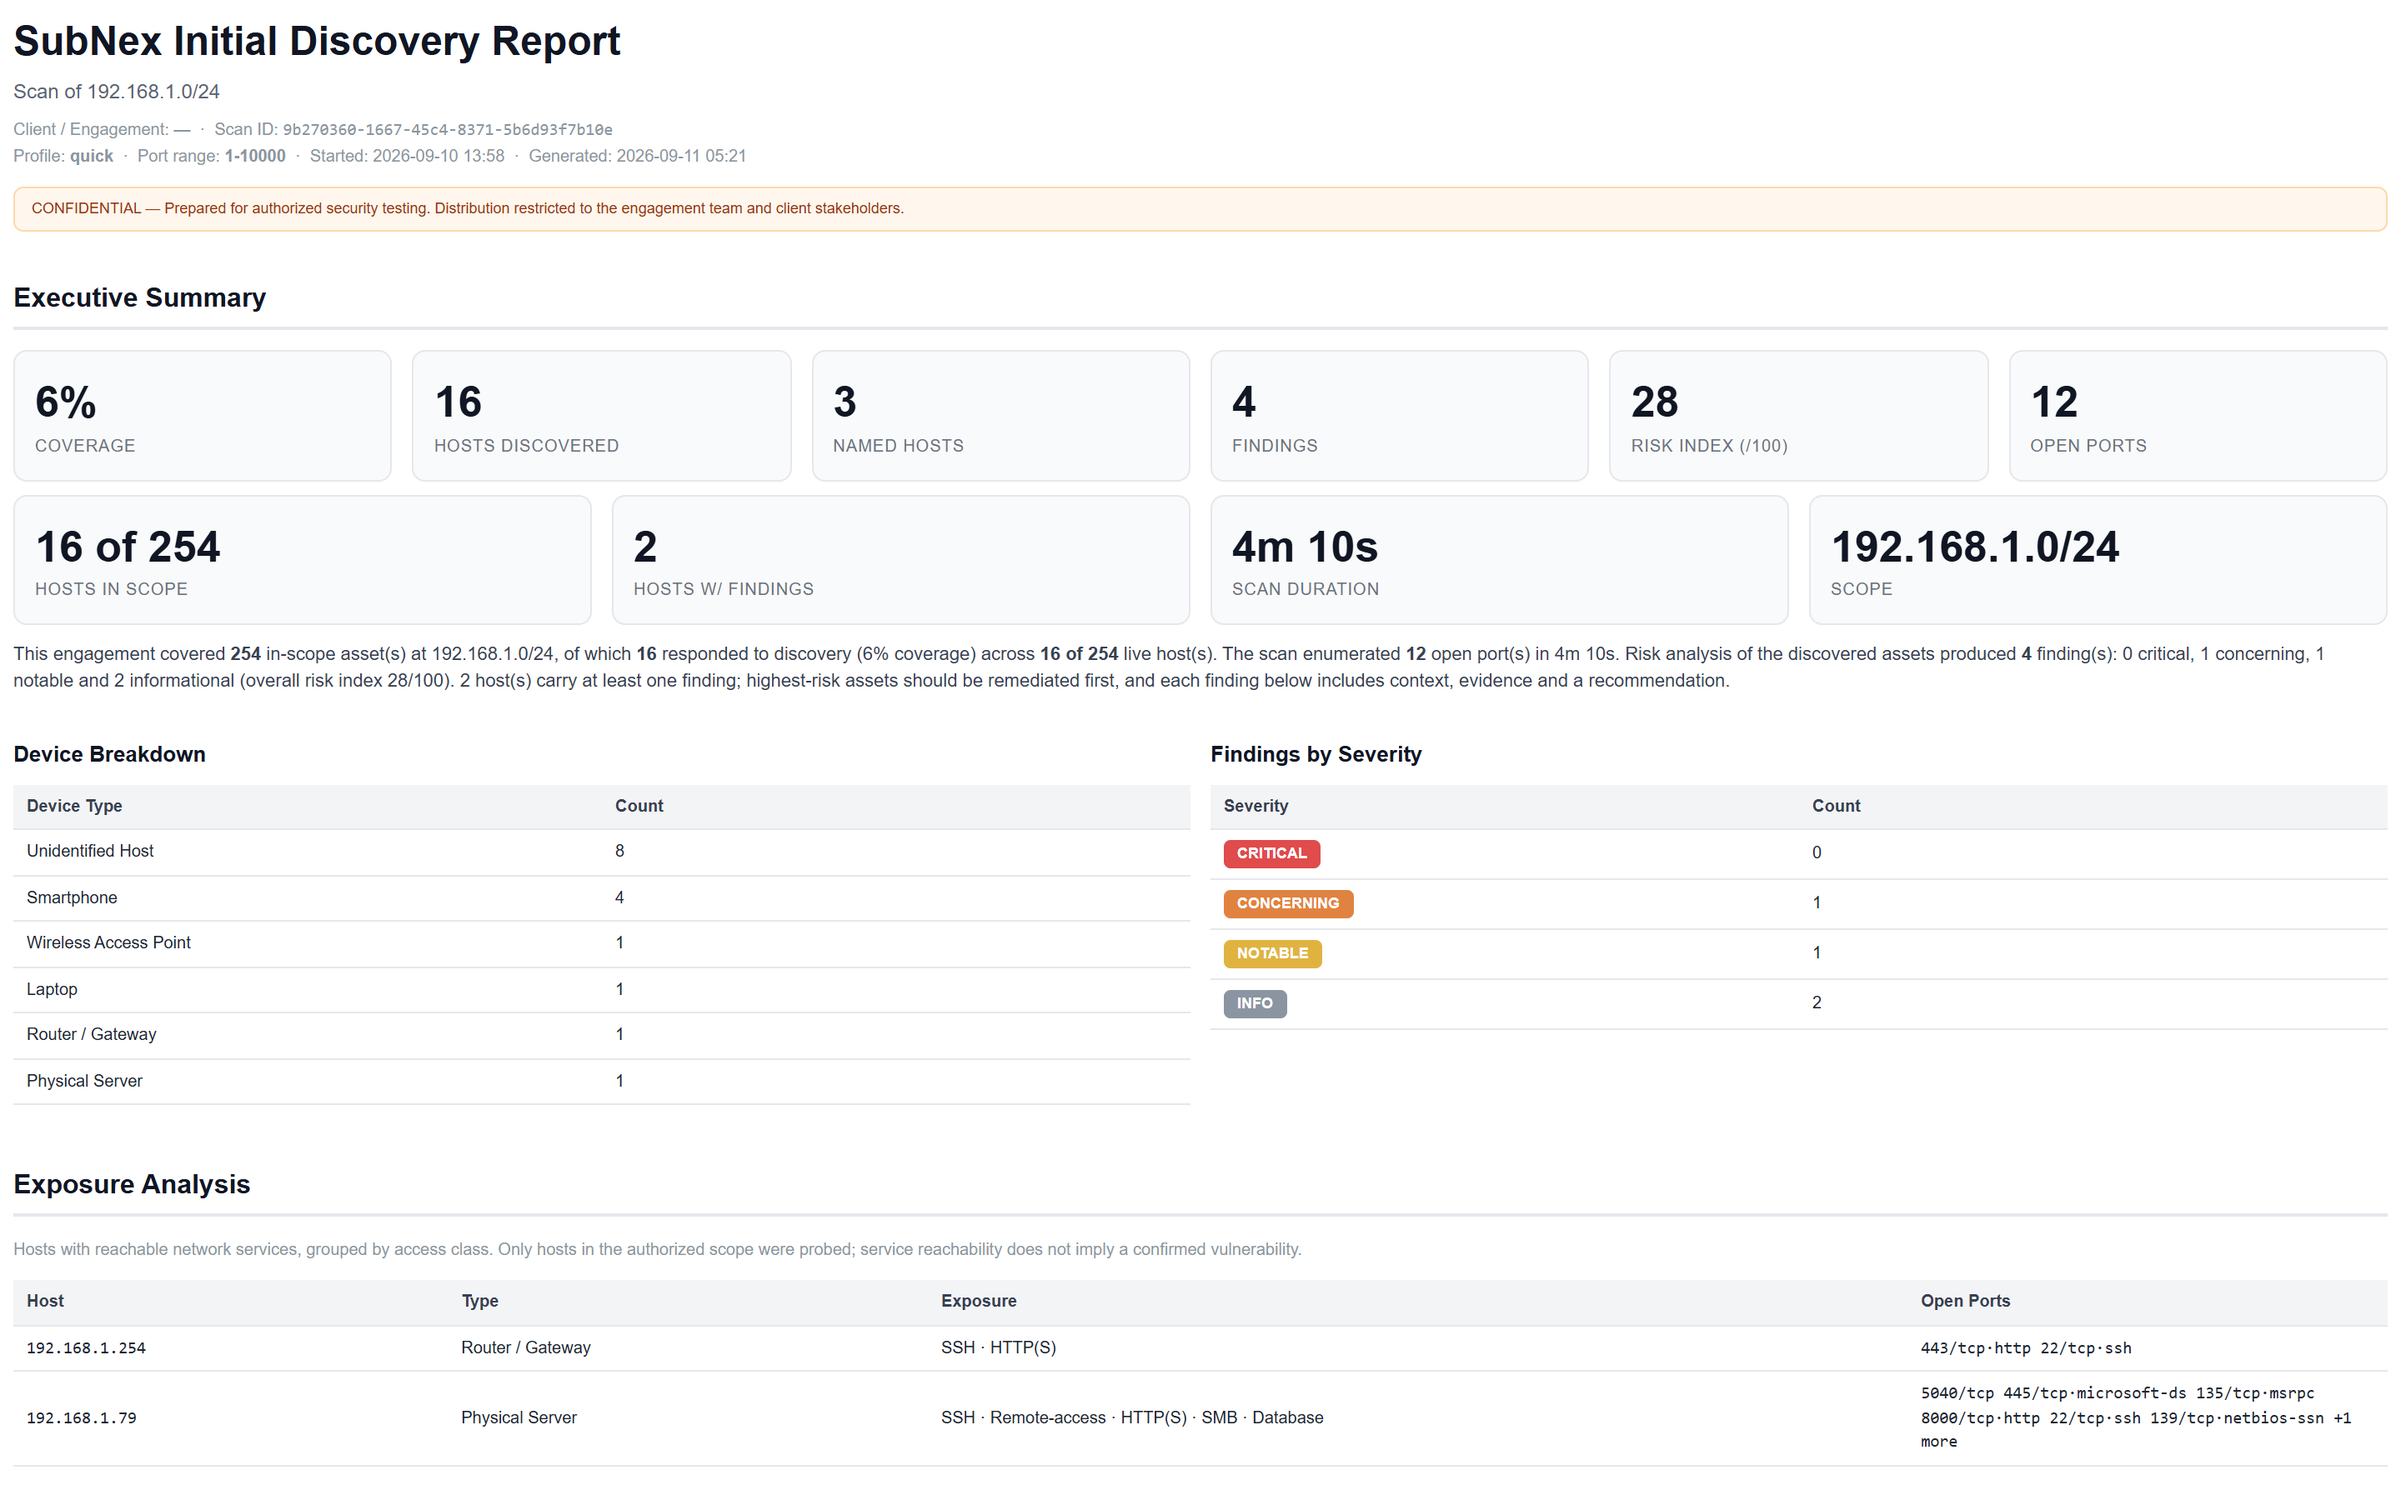
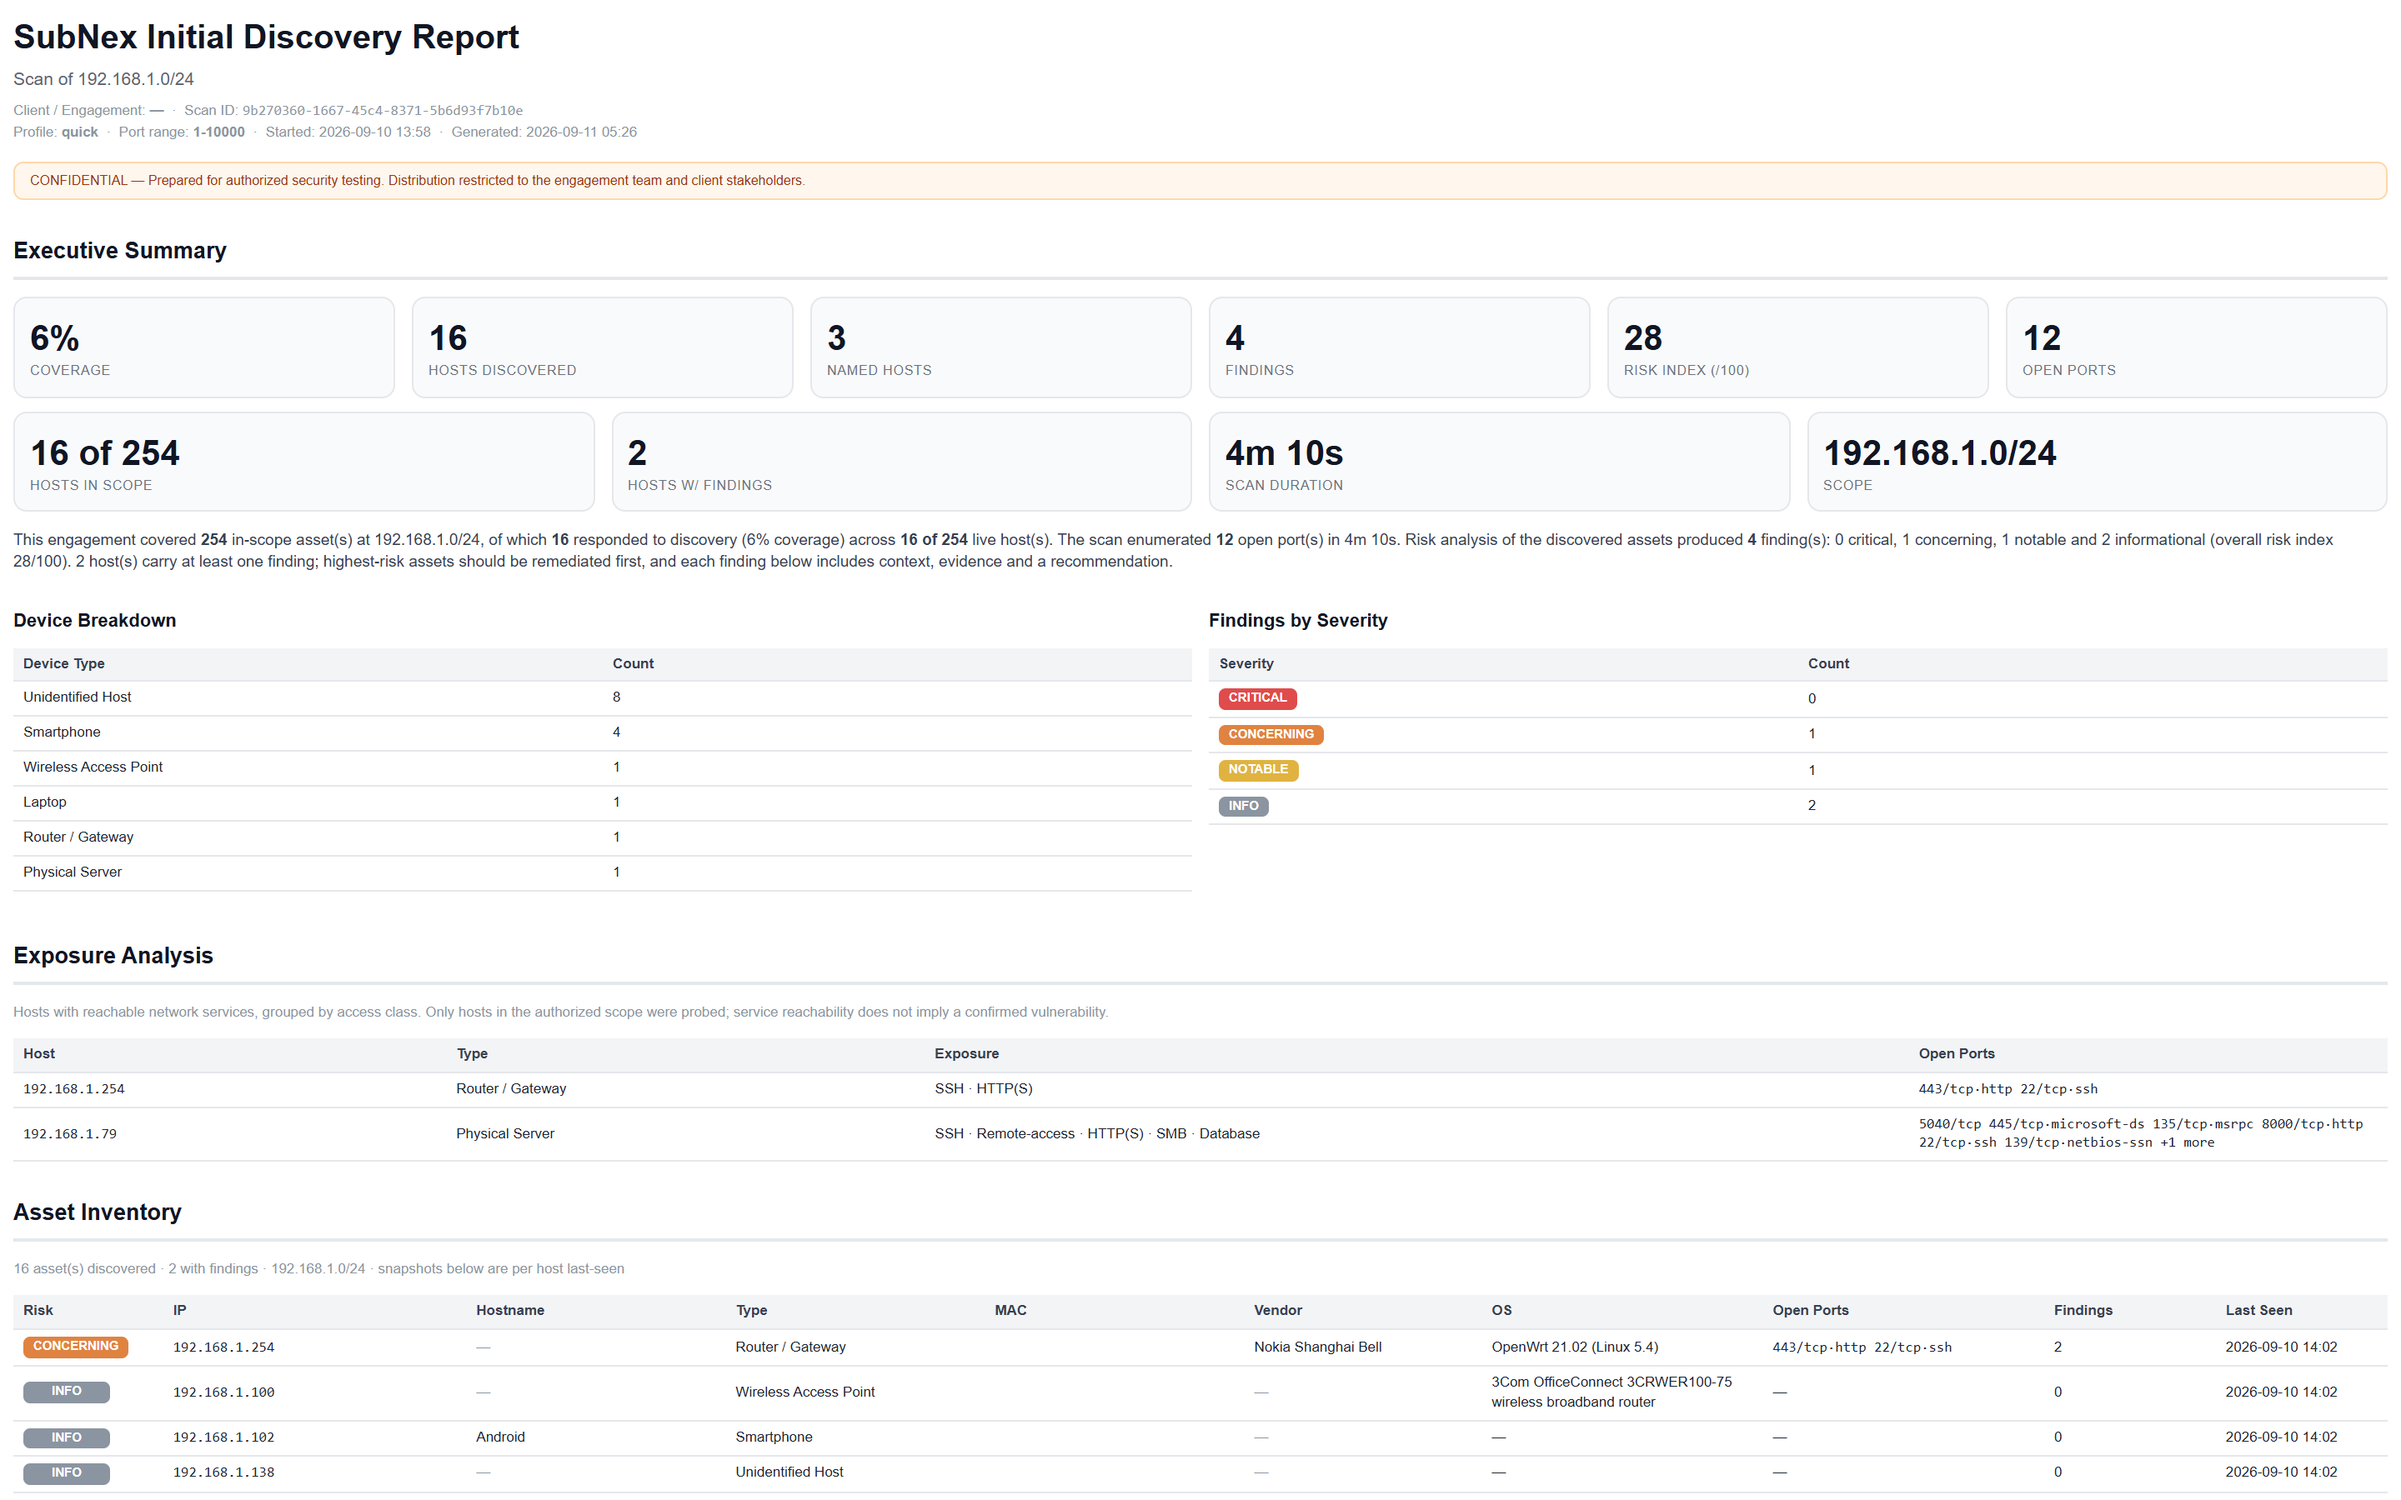
Shrink PDF report text to fit A4

diff --git a/backend/app/services/report_generator.py b/backend/app/services/report_generator.py
@@ -249,9 +249,9 @@ def _build_html(scan, hosts, findings, ports_lookup, engagement=None) -> str:
       _esc(', '.join(scan.targets))} · snapshots below are per host last-seen</p>
   <table>
     <thead><tr>
-      <th style="width:11%">Risk</th><th style="width:14%">IP</th><th style="width:12%">Hostname</th>
-      <th style="width:12%">Type</th><th style="width:12%">MAC</th><th style="width:11%">Vendor</th>
-      <th style="width:14%">OS</th><th style="width:10%">Open Ports</th><th style="width:8%">Findings</th><th style="width:9%">Last Seen</th>
+      <th style="width:6%">Risk</th><th style="width:13%">IP</th><th style="width:11%">Hostname</th>
+      <th style="width:11%">Type</th><th style="width:11%">MAC</th><th style="width:10%">Vendor</th>
+      <th style="width:12%">OS</th><th style="width:12%">Open Ports</th><th style="width:7%">Findings</th><th style="width:7%">Last Seen</th>
     </tr></thead>
     <tbody>{inv_rows}</tbody>
   </table>"""
@@ -376,43 +376,43 @@ def _build_html(scan, hosts, findings, ports_lookup, engagement=None) -> str:
 <meta charset="utf-8">
 <style>
   @page {{ size: A4; margin: 18mm 16mm; @bottom-center {{ content: "Page " counter(page) " of " counter(pages); font-size: 9px; color: #8B95A1; }} }}
-  body {{ font-family: "Inter", "Helvetica Neue", Arial, sans-serif; color: #1F2430; font-size: 11px; line-height: 1.45; }}
-  h1 {{ font-size: 24px; margin: 0 0 4px; color: #101623; }}
-  h2 {{ font-size: 16px; border-bottom: 2px solid #E5E7EB; padding-bottom: 6px; margin: 28px 0 12px; color: #101623; }}
-  h3 {{ font-size: 13px; margin: 16px 0 8px; color: #101623; }}
-  .subtitle {{ color: #5B6472; font-size: 12px; margin-bottom: 6px; }}
-  .meta {{ color: #8B95A1; font-size: 10px; line-height: 1.6; }}
-  .confidential {{ margin-top: 10px; padding: 6px 10px; background: #FFF7ED; border: 1px solid #FED7AA; border-radius: 6px; color: #9A3412; font-size: 9px; }}
+  body {{ font-family: "Inter", "Helvetica Neue", Arial, sans-serif; color: #1F2430; font-size: 9.5px; line-height: 1.4; }}
+  h1 {{ font-size: 20px; margin: 0 0 4px; color: #101623; }}
+  h2 {{ font-size: 13.5px; border-bottom: 2px solid #E5E7EB; padding-bottom: 5px; margin: 22px 0 10px; color: #101623; }}
+  h3 {{ font-size: 11px; margin: 12px 0 6px; color: #101623; }}
+  .subtitle {{ color: #5B6472; font-size: 10.5px; margin-bottom: 5px; }}
+  .meta {{ color: #8B95A1; font-size: 8.5px; line-height: 1.6; }}
+  .confidential {{ margin-top: 10px; padding: 5px 9px; background: #FFF7ED; border: 1px solid #FED7AA; border-radius: 6px; color: #9A3412; font-size: 8px; }}
   .narrative {{ color: #374151; margin-top: 10px; }}
-  .chip {{ display: inline-block; padding: 1px 6px; border: 1px solid #E5A50A; border-radius: 4px; color: #9A5B00; font-size: 9px; }}
+  .chip {{ display: inline-block; padding: 1px 5px; border: 1px solid #E5A50A; border-radius: 4px; color: #9A5B00; font-size: 8px; }}
   .chip-note {{ margin-top: 4px; }}
-  .chips {{ font-size: 10px; color: #374151; margin: 2px 0 4px; }}
-  .thingy {{ display: inline-block; padding: 1px 6px; border: 1px solid #E5A50A; border-radius: 4px; color: #9A5B00; font-size: 9px; }}
-  .dim {{ color: #9CA3AF; font-size: 8px; }}
+  .chips {{ font-size: 8.5px; color: #374151; margin: 2px 0 4px; }}
+  .thingy {{ display: inline-block; padding: 1px 5px; border: 1px solid #E5A50A; border-radius: 4px; color: #9A5B00; font-size: 8px; }}
+  .dim {{ color: #9CA3AF; font-size: 7px; }}
   .nowrap {{ white-space: nowrap; }}
   .mono {{ font-family: "SFMono-Regular", Consolas, "Liberation Mono", monospace; }}
   table {{ width: 100%; max-width: 100%; border-collapse: collapse; margin: 8px 0; table-layout: fixed; }}
-  th, td {{ text-align: left; padding: 6px 8px; border-bottom: 1px solid #E5E7EB; font-size: 10px; overflow-wrap: break-word; word-break: break-word; }}
+  th, td {{ text-align: left; padding: 4px 6px; border-bottom: 1px solid #E5E7EB; font-size: 8.5px; overflow-wrap: break-word; word-break: break-word; }}
   th {{ background: #F3F4F6; font-weight: 600; color: #374151; }}
-  .grid {{ display: flex; flex-wrap: wrap; gap: 12px; }}
-  .grid > div {{ flex: 1 1 150px; min-width: 0; }}
-  .stat {{ background: #F9FAFB; border: 1px solid #E5E7EB; border-radius: 8px; padding: 12px; min-width: 0; }}
-  .stat .num {{ font-size: 26px; font-weight: 700; color: #101623; overflow-wrap: break-word; word-break: break-word; }}
-  .stat .lbl {{ font-size: 10px; color: #6B7280; text-transform: uppercase; letter-spacing: .5px; }}
-  .badge {{ display: inline-block; padding: 2px 8px; border-radius: 4px; color: #fff; font-size: 9px; font-weight: 600; text-transform: uppercase; }}
-  .badge.pill {{ min-width: 58px; text-align: center; }}
+  .grid {{ display: flex; flex-wrap: wrap; gap: 10px; }}
+  .grid > div {{ flex: 1 1 130px; min-width: 0; }}
+  .stat {{ background: #F9FAFB; border: 1px solid #E5E7EB; border-radius: 8px; padding: 9px; min-width: 0; }}
+  .stat .num {{ font-size: 21px; font-weight: 700; color: #101623; overflow-wrap: break-word; word-break: break-word; }}
+  .stat .lbl {{ font-size: 8px; color: #6B7280; text-transform: uppercase; letter-spacing: .4px; }}
+  .badge {{ display: inline-block; padding: 1px 6px; border-radius: 4px; color: #fff; font-size: 7.5px; font-weight: 600; text-transform: uppercase; }}
+  .badge.pill {{ min-width: 40px; text-align: center; }}
   .chip.port {{ border-color: #94A3B8; color: #475569; }}
-  .ev-label {{ font-size: 9px; color: #8B95A1; text-transform: uppercase; letter-spacing: .5px; margin: 8px 0 2px; }}
-  .evidence {{ background: #0B1220; color: #C9D3E0; border: 1px solid #252F40; border-radius: 6px; padding: 8px 10px; font-size: 8.5px; line-height: 1.5; white-space: pre-wrap; font-family: "SFMono-Regular", Consolas, "Liberation Mono", monospace; }}
-  .finding {{ border: 1px solid #E5E7EB; border-left: 4px solid #8B95A1; border-radius: 6px; padding: 10px 12px; margin-bottom: 10px; }}
-  .finding-head {{ margin-bottom: 6px; }}
-  .finding-host {{ font-size: 10px; color: #6B7280; margin-bottom: 6px; }}
-  .finding p {{ margin: 4px 0; color: #374151; }}
+  .ev-label {{ font-size: 7.5px; color: #8B95A1; text-transform: uppercase; letter-spacing: .5px; margin: 7px 0 2px; }}
+  .evidence {{ background: #0B1220; color: #C9D3E0; border: 1px solid #252F40; border-radius: 6px; padding: 6px 8px; font-size: 7px; line-height: 1.45; white-space: pre-wrap; font-family: "SFMono-Regular", Consolas, "Liberation Mono", monospace; }}
+  .finding {{ border: 1px solid #E5E7EB; border-left: 4px solid #8B95A1; border-radius: 6px; padding: 8px 10px; margin-bottom: 8px; }}
+  .finding-head {{ margin-bottom: 5px; }}
+  .finding-host {{ font-size: 8.5px; color: #6B7280; margin-bottom: 5px; }}
+  .finding p {{ margin: 3px 0; color: #374151; }}
   .rec {{ color: #0F766E; }}
   .muted {{ color: #8B95A1; }}
-  ul {{ margin: 6px 0 6px 18px; }}
-  li {{ margin-bottom: 4px; }}
-  .appendix {{ background: #F9FAFB; border-radius: 6px; padding: 12px; }}
+  ul {{ margin: 4px 0 4px 16px; }}
+  li {{ margin-bottom: 3px; }}
+  .appendix {{ background: #F9FAFB; border-radius: 6px; padding: 10px; }}
   .topo-block {{ margin: 6px 0 4px; }}
   .topo-img {{ width: 100%; }}
 </style>
